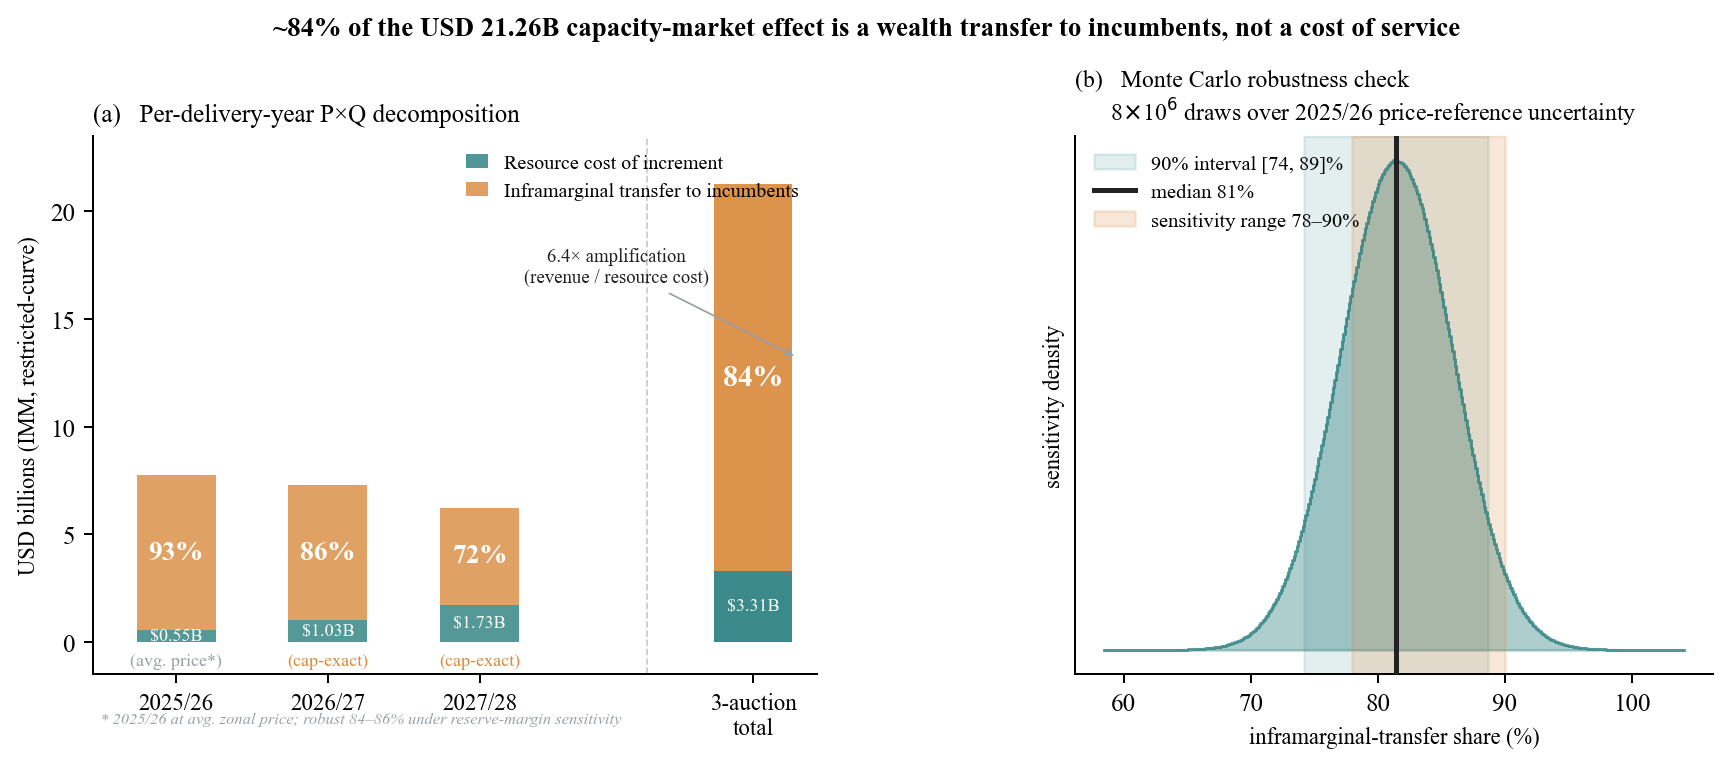
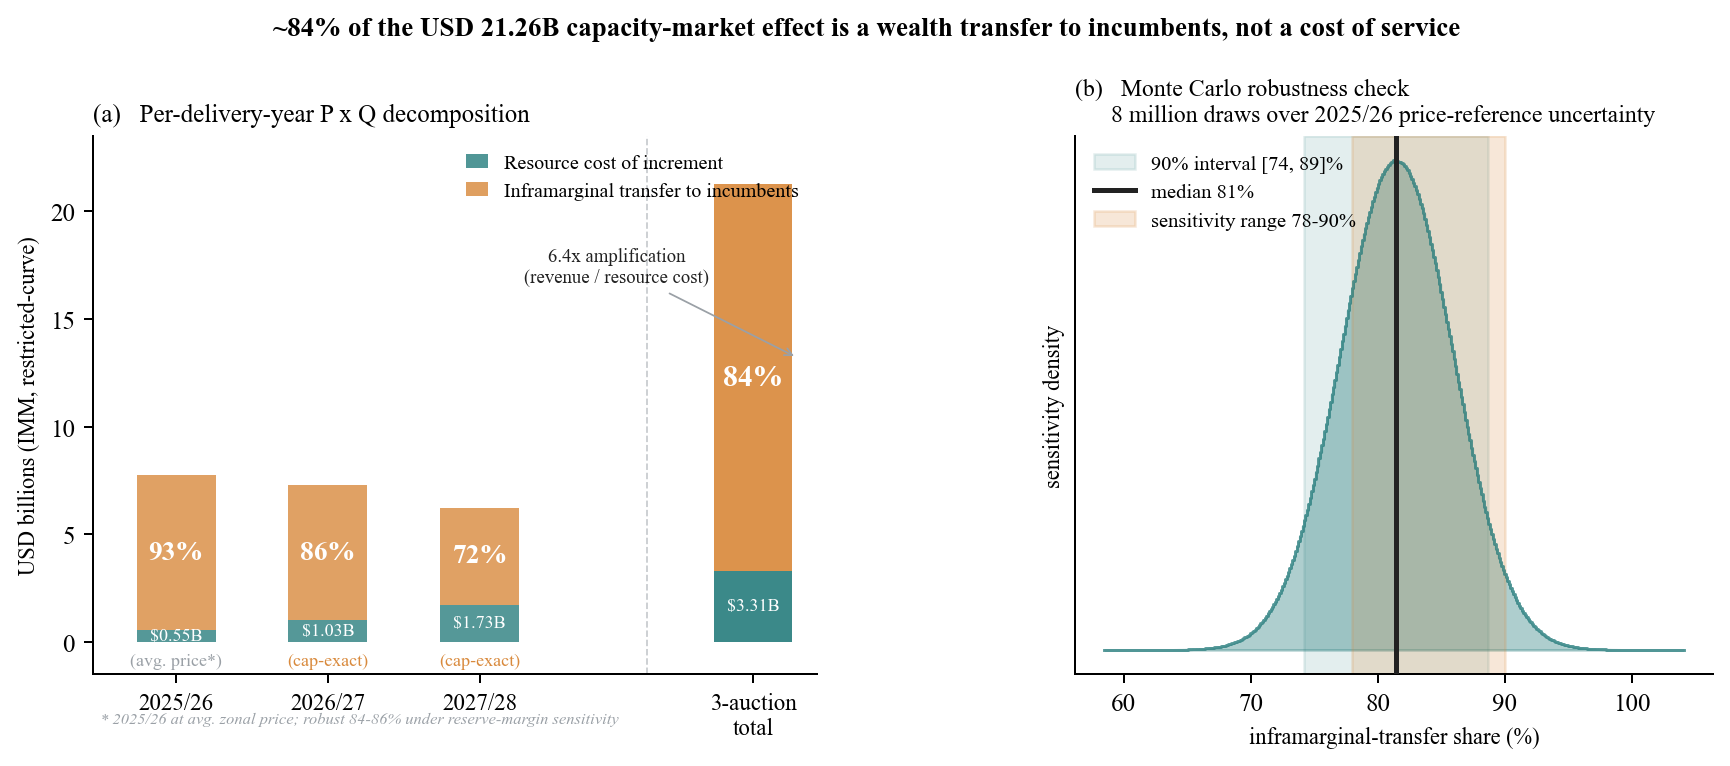
Fix figure text layer for submission release v0.2.6

diff --git a/code/fig_P1_structural.py b/code/fig_P1_structural.py
@@ -30,7 +30,7 @@ RED   = "#b3402e"
 BLUE  = "#34618f"
 WHITE = "#ffffff"
 
-# ── SI S6 data (structural P×Q, average zonal price) ─────────────────────────
+# SI S6 data (structural P x Q, average zonal price)
 YEARS   = ["2025/26",  "2026/27",  "2027/28"]
 RES_B   = [0.55,       1.03,       1.73]    # resource cost $B
 TRAN_B  = [7.19,       6.24,       4.51]    # inframarginal transfer $B
@@ -98,14 +98,14 @@ axL.set_ylabel("USD billions (IMM, restricted-curve)", fontsize=9)
 
 # "amplification" annotation on the total bar
 total_h = TOTAL_RES + TOTAL_TRAN
-axL.annotate("6.4× amplification\n(revenue / resource cost)",
+axL.annotate("6.4x amplification\n(revenue / resource cost)",
              xy=(3.8 + w/2 + 0.04, total_h * 0.62),
              xytext=(2.9, total_h * 0.82),
              fontsize=7.5, color=INK, ha="center", va="center",
              arrowprops=dict(arrowstyle="->", color=GREY, lw=0.7))
 
 # "robust 84-86%" note
-axL.text(0.01, -0.07, "* 2025/26 at avg. zonal price; robust 84–86% under reserve-margin sensitivity",
+axL.text(0.01, -0.07, "* 2025/26 at avg. zonal price; robust 84-86% under reserve-margin sensitivity",
          fontsize=6.6, color=GREY, style="italic", ha="left", va="top",
          transform=axL.transAxes)
 
@@ -116,7 +116,7 @@ legend_els = [
 ]
 axL.legend(handles=legend_els, loc="upper right", frameon=False,
            fontsize=8.0, handlelength=1.1)
-axL.set_title("(a)   Per-delivery-year P×Q decomposition", loc="left", fontsize=10)
+axL.set_title("(a)   Per-delivery-year P x Q decomposition", loc="left", fontsize=10)
 
 # ── Panel (b): Monte Carlo sensitivity distribution ───────────────────────────
 mc_path = os.path.join(HERE, "P1_mc_share.npy")
@@ -139,12 +139,12 @@ if os.path.exists(mc_path) and os.path.exists(j_path):
 
     axR.axvspan(lo, hi,  color=TEAL,  alpha=0.13, label=f"90% interval [{lo:.0f}, {hi:.0f}]%")
     axR.axvline(med,     color=INK,   lw=2.0, zorder=5, label=f"median {med:.0f}%")
-    axR.axvspan(78, 90,  color=AMBER, alpha=0.20, label="sensitivity range 78–90%")
+    axR.axvspan(78, 90,  color=AMBER, alpha=0.20, label="sensitivity range 78-90%")
 
     axR.set_xlabel("inframarginal-transfer share (%)", fontsize=9)
     axR.set_ylabel("sensitivity density", fontsize=9)
     axR.set_title("(b)   Monte Carlo robustness check\n"
-                  r"      8$\times$10$^6$ draws over 2025/26 price-reference uncertainty",
+                  "      8 million draws over 2025/26 price-reference uncertainty",
                   loc="left", fontsize=9.5)
     axR.yaxis.set_ticks([])
     axR.legend(frameon=False, fontsize=8.2, loc="upper left")